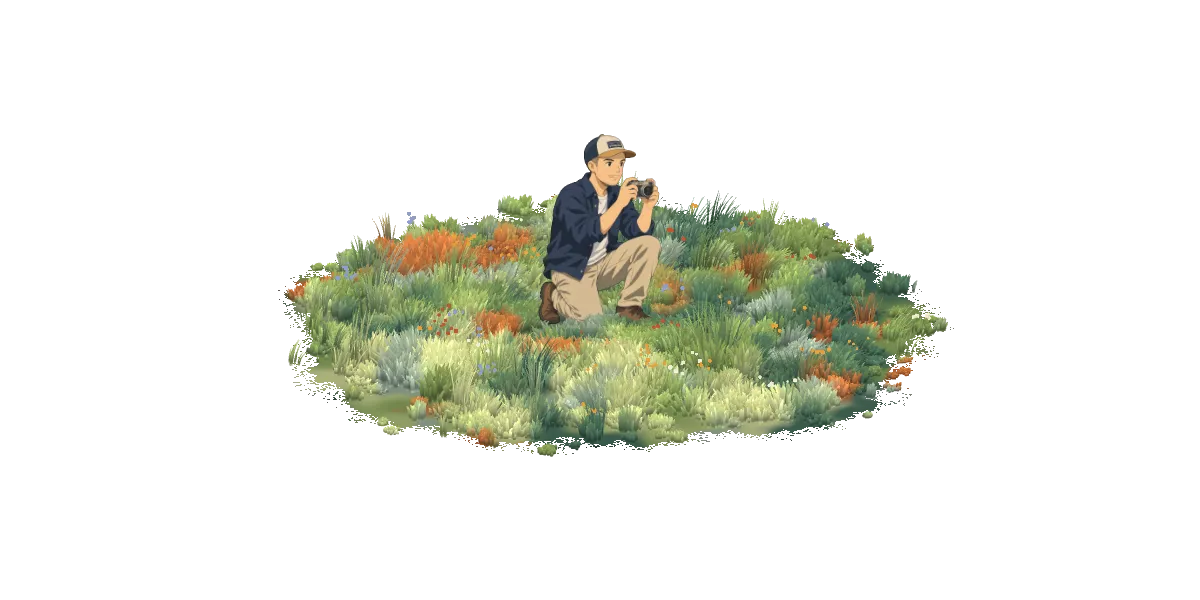
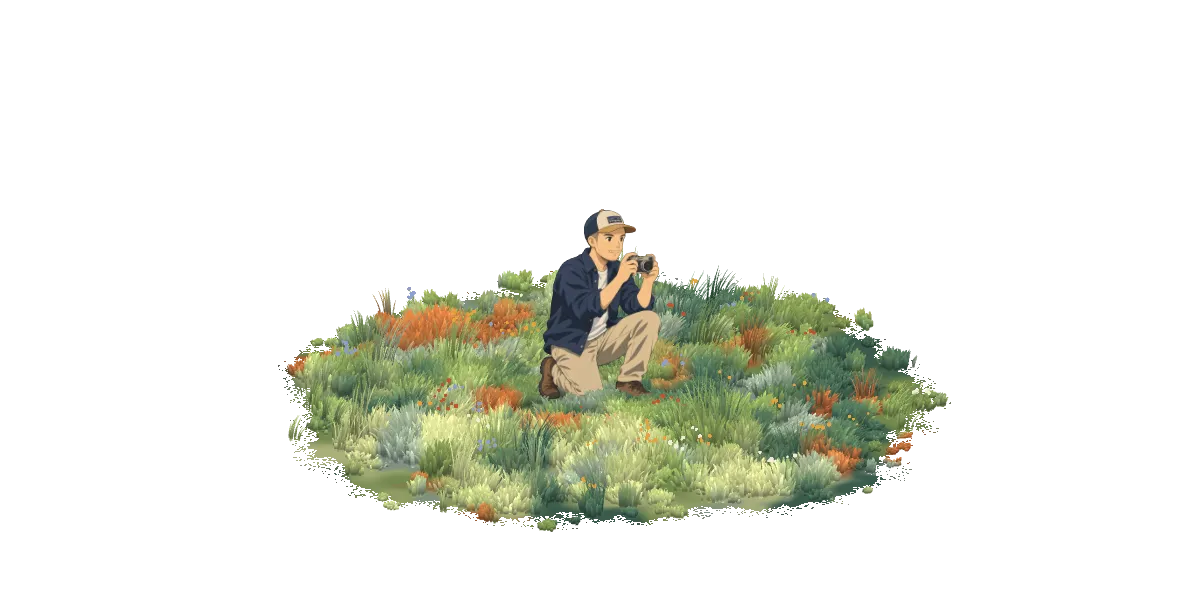
feat: dissolvenza fra i disegni senza farli sparire, scena un po' più in basso

Changed region(s): [[0.2158, 0.21, 0.8017, 0.9]]

diff --git a/src/assets/js/renderer.js b/src/assets/js/renderer.js
@@ -113,12 +113,11 @@ export function createScene(canvas, { bladeCount, figureUrls }) {
   }
 
   /** Rettangolo della figura in unità di mondo: base appoggiata a terra. */
-  function placement(i, visibility) {
+  function placement(i, shift) {
     const f = FIGURES[i];
     const { w, h } = figureSize(f);
     const tall = h / Math.cos(PITCH); // compensa lo scorcio della camera
-    const sink = (1 - visibility) * tall;
-    return { left: -f.anchorX * w, right: (1 - f.anchorX) * w, top: tall - sink, bottom: -sink, width: w };
+    return { left: -f.anchorX * w + shift, right: (1 - f.anchorX) * w + shift, top: tall, bottom: 0, width: w };
   }
 
   function screenRect(p) {
@@ -143,18 +142,34 @@ export function createScene(canvas, { bladeCount, figureUrls }) {
     gl.uniform2f(u.uShadowAxis, basis.right[0], basis.right[2]);
   }
 
-  function render({ yaw, time, wake, figure, visibility }) {
+  function render({ yaw, time, wake, blend }) {
     if (gl.isContextLost()) return;
-    load(figure);
+    load(blend.from);
+    load(blend.to);
     camera(yaw);
-    const p = placement(figure, visibility);
-    const ready = figures[figure].texture !== null;
-    const centre = (p.left + p.right) / 2;
+    // i due disegni del passaggio; uno non ancora caricato (o mancante) pesa zero
+    const layers = [
+      { index: blend.from, weight: blend.weightFrom, place: placement(blend.from, blend.shiftFrom) },
+      { index: blend.to, weight: blend.weightTo, place: placement(blend.to, blend.shiftTo) },
+    ].map((l) => ({ ...l, texture: figures[l.index].texture }))
+      .map((l) => (l.texture ? l : { ...l, weight: 0 }));
+    // l'ombra segue la miscela dei due
+    let centre = 0, width = 0, total = 0;
+    for (const l of layers) {
+      centre += ((l.place.left + l.place.right) / 2) * l.weight;
+      width += l.place.width * l.weight;
+      total += l.weight;
+    }
+    if (total > 0) {
+      centre /= total;
+      width /= total;
+    }
+    const presence = Math.min(total, 1);
     const shadow = {
       x: basis.right[0] * centre,
       z: basis.right[2] * centre,
-      reach: p.width * 0.42,
-      strength: ready ? 0.34 * visibility : 0,
+      reach: Math.max(width * 0.42, 0.1),
+      strength: 0.34 * presence,
     };
 
     gl.viewport(0, 0, canvas.width, canvas.height);
@@ -182,20 +197,33 @@ export function createScene(canvas, { bladeCount, figureUrls }) {
     }
 
     rect = null;
-    if (ready && visibility > 0) {
-      gl.useProgram(figureProgram.p);
-      gl.uniformMatrix4fv(figureProgram.u.uVP, false, vp);
-      gl.uniform3fv(figureProgram.u.uRight, basis.right);
-      gl.uniform4f(figureProgram.u.uRect, p.left, p.right, p.top, p.bottom);
-      gl.bindTexture(gl.TEXTURE_2D, figures[figure].texture);
-      gl.bindVertexArray(figureMesh.vao);
-      // disegnata per ultima con alfa premoltiplicata: bordi puliti anche sopra il cielo
-      gl.enable(gl.BLEND);
-      gl.blendFunc(gl.ONE, gl.ONE_MINUS_SRC_ALPHA);
-      gl.drawArrays(gl.TRIANGLE_STRIP, 0, 4);
-      gl.disable(gl.BLEND);
-      if (visibility === 1) rect = screenRect(p);
-    }
+    if (presence <= 0) return;
+    const [from, to] = layers;
+    const sides = (l) => [l.place.left, l.place.right, l.place.top, l.place.bottom];
+    gl.useProgram(figureProgram.p);
+    gl.uniformMatrix4fv(figureProgram.u.uVP, false, vp);
+    gl.uniform3fv(figureProgram.u.uRight, basis.right);
+    gl.uniform4f(figureProgram.u.uQuad,
+      Math.min(from.place.left, to.place.left), Math.max(from.place.right, to.place.right),
+      Math.max(from.place.top, to.place.top), 0);
+    gl.uniform4fv(figureProgram.u.uRectFrom, sides(from));
+    gl.uniform4fv(figureProgram.u.uRectTo, sides(to));
+    gl.uniform2f(figureProgram.u.uWeight, from.weight, to.weight);
+    gl.uniform1i(figureProgram.u.uFrom, 0);
+    gl.uniform1i(figureProgram.u.uTo, 1);
+    // una texture mancante pesa zero: al suo posto va bene l'altra
+    gl.activeTexture(gl.TEXTURE1);
+    gl.bindTexture(gl.TEXTURE_2D, to.texture ?? from.texture);
+    gl.activeTexture(gl.TEXTURE0);
+    gl.bindTexture(gl.TEXTURE_2D, from.texture ?? to.texture);
+    gl.bindVertexArray(figureMesh.vao);
+    // disegnata per ultima con alfa premoltiplicata: bordi puliti anche sopra il cielo
+    gl.enable(gl.BLEND);
+    gl.blendFunc(gl.ONE, gl.ONE_MINUS_SRC_ALPHA);
+    gl.drawArrays(gl.TRIANGLE_STRIP, 0, 4);
+    gl.disable(gl.BLEND);
+    // cliccabile solo da ferma
+    if (blend.from === blend.to && from.texture) rect = screenRect(from.place);
   }
 
   /** Il punto del terreno sotto il cursore, poco sopra la terra. */

diff --git a/src/assets/js/shaders.js b/src/assets/js/shaders.js
@@ -94,24 +94,37 @@ ${SHADOW}
 void main(){ vec4 c = texture(uTex, vUv); if (c.a < 0.5) discard; o = vec4(c.rgb * (1.0 - shadow(vWorld)), 1.0); }`;
 
 export const FIGURE_VS = `
-layout(location=0) in vec2 a;       // angolo del rettangolo: u, v in 0..1 (v dall'alto)
+layout(location=0) in vec2 a;       // angolo del rettangolo, 0..1
 uniform mat4 uVP;
 uniform vec3 uRight;
-uniform vec4 uRect;                 // sinistra, destra, alto, basso in unità di mondo
-out vec2 vUv; out float vHeight;
+uniform vec4 uQuad;                 // sinistra, destra, alto, basso: contiene entrambi i disegni
+out vec2 vPos;
 void main(){
-  vec3 p = uRight * mix(uRect.x, uRect.y, a.x);
-  p.y = mix(uRect.z, uRect.w, a.y);
-  vUv = a; vHeight = p.y;
+  vPos = vec2(mix(uQuad.x, uQuad.y, a.x), mix(uQuad.z, uQuad.w, a.y));
+  vec3 p = uRight * vPos.x;
+  p.y = vPos.y;
   gl_Position = uVP * vec4(p, 1.0);
 }`;
 
 export const FIGURE_FS = `
-in vec2 vUv; in float vHeight; uniform sampler2D uTex; out vec4 o;
-void main(){
-  if (vHeight < -0.001) discard;    // sotto terra mentre sprofonda
-  vec4 c = texture(uTex, vUv);      // alfa premoltiplicata
+in vec2 vPos;
+uniform sampler2D uFrom, uTo;
+uniform vec4 uRectFrom, uRectTo;    // sinistra, destra, alto, basso
+uniform vec2 uWeight;               // opacità dei due disegni
+out vec4 o;
+// colore premoltiplicato con il bordo reso netto
+vec4 drawing(sampler2D tex, vec4 r){
+  vec2 uv = vec2((vPos.x - r.x) / (r.y - r.x), (vPos.y - r.z) / (r.w - r.z));
+  vec4 c = texture(tex, uv);
   float a = clamp((c.a - 0.5) / max(fwidth(c.a), 0.001) + 0.5, 0.0, 1.0);
-  if (a <= 0.0) discard;
-  o = vec4(c.rgb / max(c.a, 0.001) * a, a);
+  vec2 inRect = step(vec2(0.0), uv) * step(uv, vec2(1.0));
+  return vec4(c.rgb / max(c.a, 0.001) * a, a) * inRect.x * inRect.y;
+}
+void main(){
+  // il disegno in arrivo sopra quello in uscita (colori premoltiplicati)
+  vec4 under = drawing(uFrom, uRectFrom) * uWeight.x;
+  vec4 over = drawing(uTo, uRectTo) * uWeight.y;
+  vec4 c = over + under * (1.0 - over.a);
+  if (c.a <= 0.003) discard;
+  o = c;
 }`;

diff --git a/src/assets/js/main.js b/src/assets/js/main.js
@@ -1,6 +1,6 @@
 // Collega pagina, rotazione, scia e scena. Senza di lui restano i link in HTML.
 import { createScene } from './renderer.js';
-import { createRotation, dragStart, dragBy, release, goTo, step, tick, activeIndex, figureVisibility, trackFraction, scrubStart, scrubTo, scrubEnd } from './rotation.js';
+import { createRotation, dragStart, dragBy, release, goTo, step, tick, activeIndex, figureBlend, trackFraction, scrubStart, scrubTo, scrubEnd } from './rotation.js';
 import { createWake } from './wake.js';
 import { createWheelStepper } from './wheel.js';
 import { FIGURES } from './figures.js';
@@ -102,8 +102,7 @@ function draw(ms, dt) {
     yaw: 0.35 + (rotation.pos * Math.PI * 2) / 3,
     time: calm.matches ? 0 : ms / 1000,
     wake: wake.data(),
-    figure: index,
-    visibility: figureVisibility(rotation),
+    blend: figureBlend(rotation.pos),
   });
 }
 
@@ -144,7 +143,7 @@ function endDrag(velocity = 0) {
   release(rotation, velocity);
 }
 
-const overFigure = (e) => figureVisibility(rotation) === 1 && hitRect(scene?.figureRect() ?? null, e.clientX, e.clientY);
+const overFigure = (e) => hitRect(scene?.figureRect() ?? null, e.clientX, e.clientY);
 const touchPoint = (e, hold) => ({ x: e.clientX, y: e.clientY, until: performance.now() + hold });
 
 canvas.addEventListener('pointerdown', (e) => {

diff --git a/src/assets/js/ui-state.js b/src/assets/js/ui-state.js
@@ -12,11 +12,15 @@ export const bladeCountFor = (width, height) => (Math.min(width, height) < 700 ?
 /** Estremi verticali della scena (unità di mondo sullo schermo, 0 = centro del prato). */
 export const SCENE_TOP = 5.8;
 export const SCENE_BOTTOM = -4.1;
+const LOW = 0.2; // quota dello spazio libero lasciata sotto
 
 /** Inquadratura della camera dentro il riquadro disponibile: niente deve restare tagliato. */
 export function fitView(width, height, windowWidth, windowHeight) {
   const aspect = windowWidth / windowHeight;
   const wanted = aspect > 1 ? Math.max(17, 8.5 * aspect) : 7.2; // semi-larghezza ideale
   const perUnit = Math.min(width / (2 * wanted), height / (SCENE_TOP - SCENE_BOTTOM));
-  return { hw: width / (2 * perUnit), hh: height / (2 * perUnit), cy: (SCENE_TOP + SCENE_BOTTOM) / 2 };
+  const hh = height / (2 * perUnit);
+  const spare = 2 * hh - (SCENE_TOP - SCENE_BOTTOM);
+  // l'altezza che avanza va quasi tutta sopra: il prato sta in basso
+  return { hw: width / (2 * perUnit), hh, cy: SCENE_BOTTOM + hh - spare * LOW };
 }

diff --git a/src/assets/js/rotation.js b/src/assets/js/rotation.js
@@ -66,4 +66,22 @@ export function scrubEnd(s) {
 
 export const activeIndex = (s) => mod(Math.round(s.pos));
 
-export const figureVisibility = (s) => 1 - smoothstep(0.15, 0.45, Math.abs(s.pos - Math.round(s.pos)));
+const SLIDE = 0.35; // scorrimento laterale durante il passaggio, in unità di mondo
+
+/**
+ * Quali disegni mostrare a una data posizione. `to` va disegnato sopra `from`:
+ * compare mentre `from` è ancora pieno, poi `from` si dissolve sotto. La figura non sparisce mai.
+ */
+export function figureBlend(pos) {
+  const base = Math.floor(pos);
+  const t = pos - base;
+  if (t === 0) return { from: mod(base), to: mod(base), weightFrom: 1, weightTo: 0, shiftFrom: 0, shiftTo: 0 };
+  return {
+    from: mod(base),
+    to: mod(base + 1),
+    weightFrom: 1 - smoothstep(0.35, 0.85, t),
+    weightTo: smoothstep(0.15, 0.65, t),
+    shiftFrom: -t * SLIDE,
+    shiftTo: (1 - t) * SLIDE,
+  };
+}

diff --git a/docs/superpowers/specs/2026-11-25-ao-hub-design.md b/docs/superpowers/specs/2026-11-25-ao-hub-design.md
@@ -69,7 +69,7 @@ Comportamento:
 - Si gira trascinando, oppure con la rotella del mouse o il trackpad (richiesta di Alberto dopo la prima prova): un gesto, una scena; giù = avanti, su = indietro. Sotto il prato (richiesta di Alberto, sul modello del riferimento): una linea continua con un cursore che si può trascinare, la scritta «Trascina per girare» e due frecce; sostituiscono frecce laterali e pallini.
 - Lo sfondo sfuma da un azzurro molto chiaro in alto al colore carta (richiesta di Alberto).
 - La rotazione si ferma sempre su uno dei tre momenti **(proposta)**.
-- Il prato ruota e la figura cambia durante il movimento, con l'erba davanti che aiuta a coprire il passaggio **(proposta)**. Non è un giro intorno alla persona: sono tre immagini diverse.
+- Il prato ruota e il disegno cambia in dissolvenza, con un lieve scorrimento: la figura non sparisce mai del tutto (richiesta di Alberto dopo la prima prova; prima sprofondava nell'erba). Non è un giro intorno alla persona: sono tre immagini diverse.
 - Si entra con i bottoni in alto o cliccando la figura. La scritta sotto il prato è stata tolta su richiesta di Alberto dopo la prima prova (nello schema qui sopra non va considerata). Un trascinamento non deve contare come clic **(proposta)**.
 - In alto si vede **solo il bottone del momento mostrato** (richiesta di Alberto dopo la prima prova). Senza grafica 3D o JavaScript si vedono tutti e tre.
 - I link si aprono nella stessa scheda **(proposta)**.
